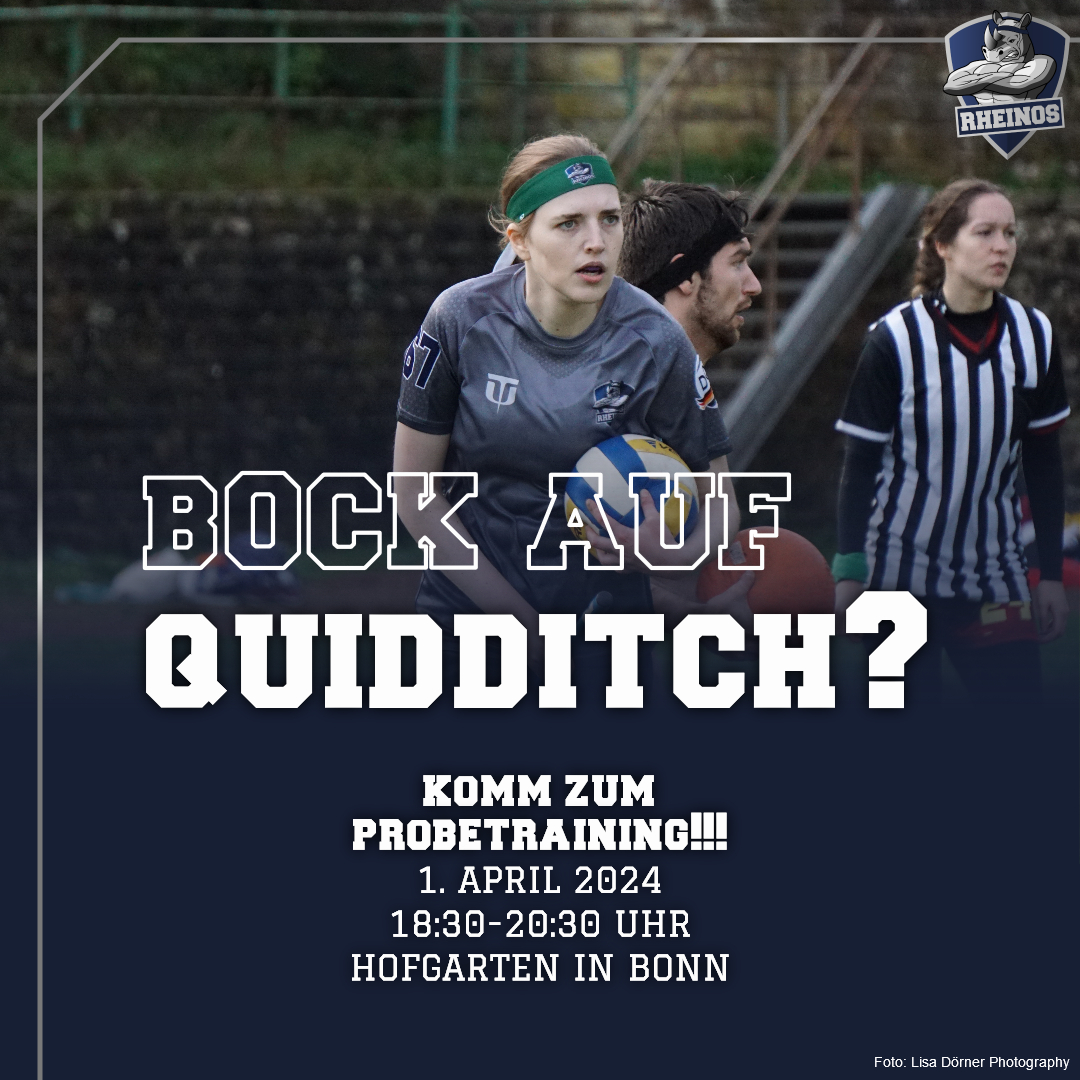
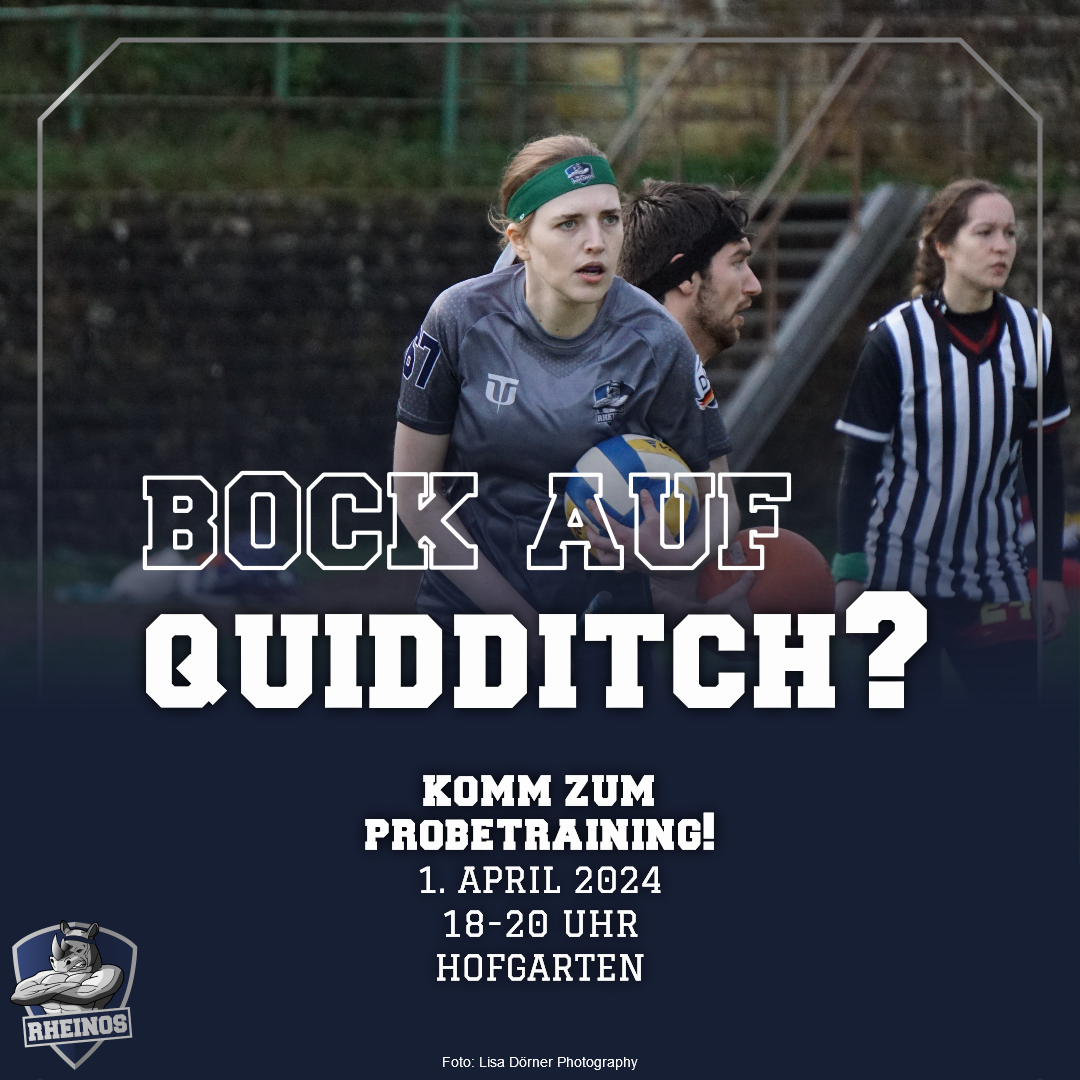
changes for open training announcement template

diff --git a/pages/generator-ot-announcement.html b/pages/generator-ot-announcement.html
@@ -40,15 +40,15 @@ permalink: /generator-ot-announcement
 					</div>
 					<svg xmlns="http://www.w3.org/2000/svg" height="100%" viewBox="0 0 1080 1080">
 					  <defs>
-							<linearGradient id="grey_gradient" x1="0" x2=".75" y1="0" y2="1">
-					      <stop offset="28%" stop-color="#797979" />
-					      <stop offset="33%" stop-color="#d6d6d6" />
-					      <stop offset="38%" stop-color="#797979" />
+							<linearGradient id="grey_gradient" x1=".25" x2="0" y1="0" y2="1">
+					      <stop offset="5%" stop-color="#797979" />
+					      <stop offset="10%" stop-color="#d6d6d6" />
+					      <stop offset="15%" stop-color="#797979" />
 					    </linearGradient>
 					  </defs>
 
 					  <g>
-							<path stroke="url(#grey_gradient)" stroke-width="5px" fill="#0000" d="M 40,1080 V 120 l 80,-80 H 1080" />
+							<path stroke="url(#grey_gradient)" stroke-width="5px" fill="#0000" d="M 40,1080 V 120 l 80,-80 H 960 l 80,80 V 1080" />
 					  </g>
 					</svg>
 

diff --git a/css/generator.css b/css/generator.css
@@ -982,8 +982,8 @@ main .wrapper #capture [enabled="false"] {
 
 #capture.ot-announcement .logo {
 	position: absolute;
-	top: 10px;
-	right: 10px;
+	bottom: 10px;
+	left: 10px;
 	height: 150px;
 
 	z-index: 5;
@@ -1002,12 +1002,7 @@ main .wrapper #capture [enabled="false"] {
 	width: 100%;
 }
 
-#capture.ot-announcement svg {
-	z-index: 4;
-}
-
 #capture.ot-announcement .credit {
-	right: 0;
 	bottom: 0;
 }
 
